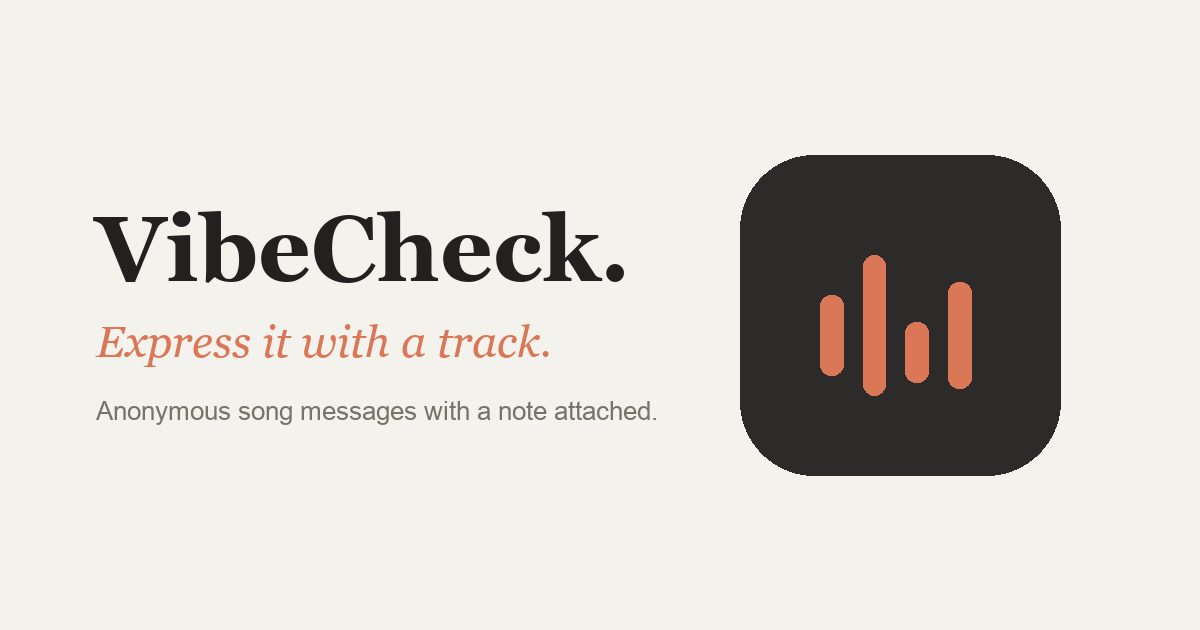
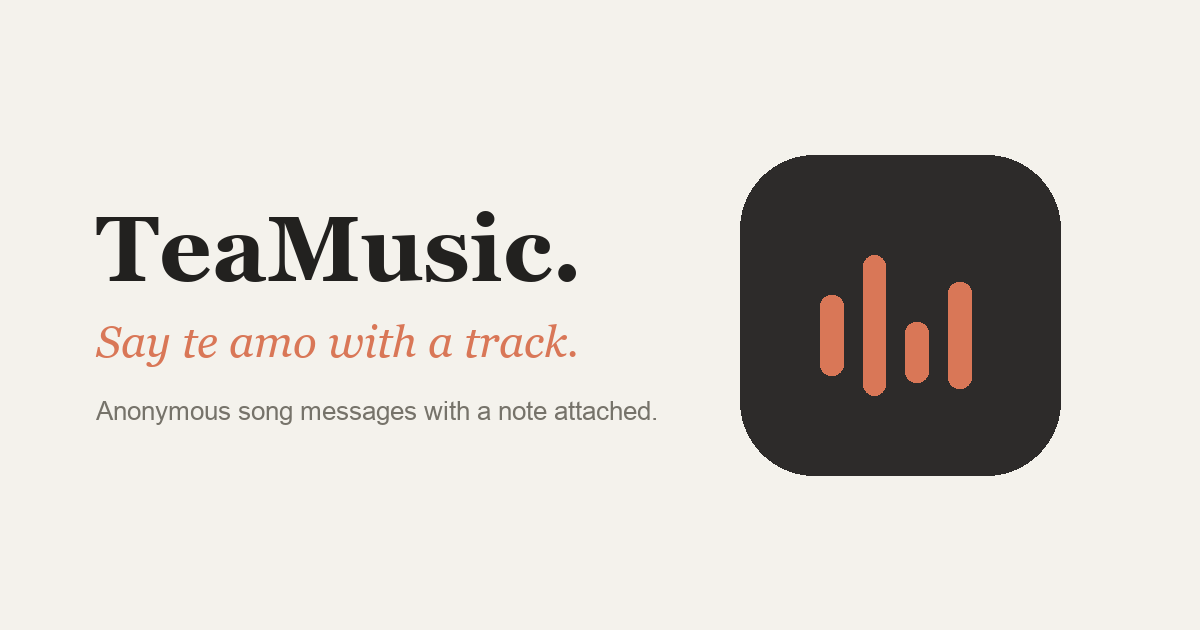
Rebrand to TeaMusic
- og-default.png regenerated by scripts/og-images.py: "TeaMusic." over
  "Say te amo with a track."; the favicon keeps the equalizer mark, which
  never carried the old name
- index.html title, description and image alt, every per-route title in
  seo.ts, and the exported story card all follow the new name
- check:seo now reads the default title out of index.html, so a future
  rename cannot leave that assertion passing on nothing

Changed region(s): [[0.0617, 0.3317, 0.5242, 0.4524], [0.0617, 0.5127, 0.4933, 0.573]]

diff --git a/apps/web/src/lib/seo.ts b/apps/web/src/lib/seo.ts
@@ -76,23 +76,23 @@ function decodePath(value: string): string {
 export function routeSeo(pathname: string): PageSeo {
   if (pathname === '/') {
     return {
-      title: 'VibeCheck — express it with a track',
-      description: 'VibeCheck — send an anonymous song message, then mix it by zodiac and mood.',
+      title: 'TeaMusic — Say Te Amo With a Track',
+      description: 'TeaMusic — send an anonymous song message, then mix it by zodiac and mood.',
       path: '/',
       index: true,
     };
   }
   if (pathname === '/browse') {
     return {
-      title: 'Browse the whispers — VibeCheck',
-      description: 'Every whisper sent on VibeCheck, newest first. Mix them by zodiac and mood.',
+      title: 'Browse the whispers — TeaMusic',
+      description: 'Every whisper sent on TeaMusic, newest first. Mix them by zodiac and mood.',
       path: '/browse',
       index: true,
     };
   }
   if (pathname === '/history') {
     return {
-      title: 'Your history — VibeCheck',
+      title: 'Your history — TeaMusic',
       description: 'The tracks you sent from this browser, waiting where you left them.',
       path: '/history',
       // Personal and local: robots.txt already blocks the crawl, and the
@@ -102,7 +102,7 @@ export function routeSeo(pathname: string): PageSeo {
   }
   if (pathname === '/to') {
     return {
-      title: 'Your whispers — VibeCheck',
+      title: 'Your whispers — TeaMusic',
       description: 'Enter the name people whisper to you and they will gather here.',
       path: '/to',
       index: true,
@@ -111,14 +111,14 @@ export function routeSeo(pathname: string): PageSeo {
   if (pathname.startsWith('/to/')) {
     const name = decodePath(pathname.slice('/to/'.length)).trim();
     return {
-      title: `Whispers for ${clamp(name, 40)} — VibeCheck`,
+      title: `Whispers for ${clamp(name, 40)} — TeaMusic`,
       description: `Everything addressed to ${clamp(name, 60)}, newest first. No sender is stored.`,
       path: pathname,
       index: true,
     };
   }
   return {
-    title: 'Nothing here — VibeCheck',
+    title: 'Nothing here — TeaMusic',
     description: 'That page does not exist.',
     path: pathname,
     index: false,
@@ -130,7 +130,7 @@ export function messageSeo(message: { id: string; recipient: string; message: st
   const note = message.message.trim();
   const track = `${message.trackName} — ${message.artistName}`;
   return {
-    title: `A song for ${clamp(message.recipient, 40) || 'you'} — VibeCheck`,
+    title: `A song for ${clamp(message.recipient, 40) || 'you'} — TeaMusic`,
     description: clamp(note || track, 200),
     path: `/?m=${encodeURIComponent(message.id)}`,
     index: true,

diff --git a/apps/web/index.html b/apps/web/index.html
@@ -9,10 +9,10 @@
     <meta name="robots" content="index, follow, max-image-preview:large, max-snippet:-1" />
     <meta
       name="description"
-      content="VibeCheck — send an anonymous song message, then mix it by zodiac and mood."
+      content="TeaMusic — send an anonymous song message, then mix it by zodiac and mood."
     />
     <link rel="canonical" href="https://teamusic.my.id/" />
-    <title>TeaMusic — Say Te Amo Witch a Track</title>
+    <title>TeaMusic — Say Te Amo With a Track</title>
 
     <!--
       Share previews. WhatsApp and Instagram read these tags from the first
@@ -48,7 +48,7 @@
     <meta name="twitter:image" content="https://teamusic.my.id/og-default.png" />
     <meta
       name="twitter:image:alt"
-      content="TeaMusic — say te amo with a track.. Anonymous song messages with a note attached."
+      content="TeaMusic — say te amo with a track. Anonymous song messages with a note attached."
     />
 
     <script type="application/ld+json">

diff --git a/scripts/seo.check.ts b/scripts/seo.check.ts
@@ -101,7 +101,11 @@ check('swaps in the cover art and points the canonical at the link', () => {
   assert.ok(rendered.includes('content="https://is1-ssl.mzstatic.com/image/thumb/Music115/v4/ab/cd/ef/cover.jpg/1000x1000bb.jpg"'));
   assert.ok(rendered.includes('content="1000"'));
   assert.ok(rendered.includes(`href="${message.url}"`));
-  assert.ok(!rendered.includes('VibeCheck — express it with a track'), 'the built-in title survived');
+  // The default title is read out of index.html rather than repeated here, so
+  // rebranding the copy cannot leave this assertion quietly passing on nothing.
+  const builtinTitle = /<title>([^<]+)<\/title>/.exec(html)?.[1] ?? '';
+  assert.ok(builtinTitle.length > 0, 'index.html ships no <title>');
+  assert.ok(!rendered.includes(`<title>${builtinTitle}</title>`), 'the built-in title survived');
 });
 
 check('leaves the tags it does not own alone', () => {

diff --git a/apps/web/src/components/StoryCard.tsx b/apps/web/src/components/StoryCard.tsx
@@ -78,7 +78,7 @@ export const StoryCard = forwardRef<HTMLDivElement, Props>(function StoryCard(
 
       {/* Top header, padded clear of the profile row overlay. */}
       <div className="z-10 flex w-full items-center justify-between px-20 pt-32">
-        <h1 className="font-serif font-bold tracking-tight italic" style={{ fontSize: 52 }}>VibeCheck.</h1>
+        <h1 className="font-serif font-bold tracking-tight italic" style={{ fontSize: 52 }}>TeaMusic.</h1>
         <div className="flex gap-4">
           {zodiac ? (
             <span className="rounded-full border border-ink/20 bg-white/10 px-6 py-2 font-mono tracking-widest text-ink/70 uppercase backdrop-blur-md" style={{ fontSize: 24 }}>

diff --git a/scripts/og-images.py b/scripts/og-images.py
@@ -71,8 +71,8 @@ def og_default() -> None:
             break
         sub_size -= 2
 
-    draw.text((x, 196), "VibeCheck.", font=brand, fill=INK)
-    draw.text((x, 316), "Express it with a track.", font=tagline, fill=ACCENT)
+    draw.text((x, 196), "TeaMusic.", font=brand, fill=INK)
+    draw.text((x, 316), "Say te amo with a track.", font=tagline, fill=ACCENT)
     draw.text((x, 396), sub_text, font=sub, fill=MUTED)
 
     image.save(OUT / "og-default.png", "PNG", optimize=True)

diff --git a/PROGRESS.md b/PROGRESS.md
@@ -1,8 +1,23 @@
 # PROGRESS
 
-_Status: read-only audit executed, share previews shipped — dead code removed, CORS wired, SEO live, 2026-10-01_
+_Status: rebranded to TeaMusic, share previews shipped — dead code removed, CORS wired, SEO live, 2026-10-01_
 
-## This pass: share previews and SEO
+## This pass: rebrand to TeaMusic
+
+The name is **TeaMusic** now, and the tagline is "say te amo with a track."
+
+- **The share image was redrawn.** `scripts/og-images.py` renders `TeaMusic.`
+  over the new tagline onto `og-default.png`; the favicon and touch icon keep
+  the equalizer mark, which never carried the old name and needs no redraw.
+- **The copy follows it everywhere a crawler or a tab looks:** `index.html`
+  title, description and image alt, plus every per-route title and description
+  in `src/lib/seo.ts`, so the static head and the SPA head agree.
+- **The exported story card** header reads `TeaMusic.` like the nav.
+- **`check:seo` reads the default title out of `index.html`** rather than
+  repeating it, so the next rename cannot leave that assertion passing on
+  nothing.
+
+## Previous pass: share previews and SEO
 
 Two questions had to be answered before the deploy: what a shared link looks
 like in a chat, and what a crawler indexes when it follows one.
@@ -188,10 +203,10 @@ exports namespace-style, and a wildcard import is the natural mistake.
 
 Palette (`#F4F2EC` / `#22211F` / `#76736A` / `#E3DFD5`, accent unchanged), soft
 elevation shadows, contained inputs with a terracotta focus ring, the
-"Express it with *a track.*" masthead, the form-left / preview-right split, the
+"Express it with *a track.*" masthead (since retitled "Say Te Amo With a track."), the form-left / preview-right split, the
 zodiac pill rail with edge fades, mood icon cards, the spinning-vinyl preview
 card, artwork crossfade, scale pop on select, the toast, and the larger
-"Latest Whispers" marquee cards. Branding unified on VibeCheck.
+"Latest Whispers" marquee cards. Branding unified on TeaMusic.
 
 The prototype's mood set (4 items) and zodiac icons were not copied verbatim:
 the product has 8 moods that are already persisted and constrained in the

diff --git a/TODO.md b/TODO.md
@@ -1,8 +1,17 @@
 # TODO
 
-_Status: quality gates automated, dead code removed, share previews shipped, 2026-10-01_
+_Status: rebranded to TeaMusic, share previews shipped, 2026-10-01_
 
 ## Just completed
+
+### Rebrand to TeaMusic
+
+- [x] OG image regenerated by `scripts/og-images.py`: `TeaMusic.` over "Say te
+      amo with a track."; the favicon keeps the equalizer mark, which never
+      carried the old name
+- [x] Head copy, per-route tab titles and the exported story card all say
+      TeaMusic; `check:seo` now reads the default title out of `index.html`
+      instead of repeating it
 
 ### Share previews and SEO
 
@@ -25,8 +34,8 @@ _Status: quality gates automated, dead code removed, share previews shipped, 202
 - [x] Palette: `#F4F2EC` bg, `#22211F` text, `#76736A` muted, `#E3DFD5` border, `#D97757` accent
 - [x] `shadow-soft` / `shadow-lift` elevation, used instead of heavy borders
 - [x] Contained inputs with a terracotta focus ring (`.field`)
-- [x] Branding unified on **VibeCheck.** across nav, footer, story card, share title, `<title>`
-- [x] Masthead: "Express it with *a track.*" with the italic terracotta accent
+- [x] Branding unified on **TeaMusic.** across nav, footer, story card, share title, `<title>`
+- [x] Masthead: "Say Te Amo With *a track.*" with the italic terracotta accent
 - [x] Layout: form + zodiac + mood on the left, live preview sticky on the right
 - [x] Zodiac as a horizontal pill rail with Phosphor icons and edge fade masks
 - [x] Moods as icon cards, four across
@@ -62,7 +71,7 @@ _Status: quality gates automated, dead code removed, share previews shipped, 202
 - [x] Headless Chrome, full flow: search 11 results + 11 play buttons + 600px
       covers, pick, fill, mix "Golden Ratio Longing", send, marquee 6 to 8,
       browse `?q=dewi` returns 1 card with a 600px cover
-- [x] Story export 1080x1920, branded VibeCheck.
+- [x] Story export 1080x1920, branded TeaMusic.
 - [x] Mobile 390px verified
 - [x] **API-down regression test**: covers still 600px, feed still renders,
       banner reads "API OFFLINE"

diff --git a/README.md b/README.md
@@ -1,4 +1,4 @@
-# VibeCheck
+# TeaMusic
 
 Anonymous song messages with a note attached. Pick a track, write the message, mix a vibe onto it, share the story image. The recipient opens a link, the song plays, and they find out it was for them. Your name never appears.
 
@@ -223,5 +223,5 @@ curl -sI -H 'Origin: https://teamusic.my.id' https://<service>.koyeb.app/api/hea
 ```
 
 Both should answer from the deployed hosts. A card that still says
-`VibeCheck — express it with a track` means the message lookup missed, not
+`TeaMusic — Say Te Amo With a Track` means the message lookup missed, not
 that the tags are missing: the default card is the intended fallback.
